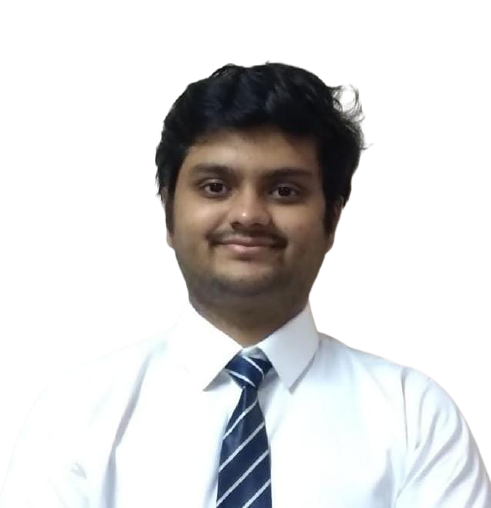
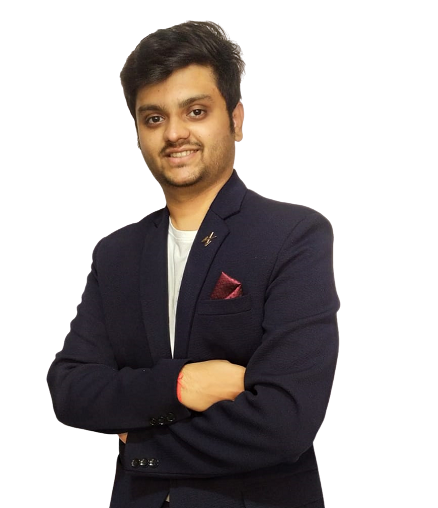
Profile photo updated

diff --git a/index.html b/index.html
@@ -119,7 +119,7 @@
                                     129.362C2.45775 97.8511 -7.48481 59.1033 6.67581 34.5279C20.9871 10.1032 59.7028 
                                     -0.149132 97.9666 0.00163737C136.23 0.303176 174.193 10.857 190.312 36.4879Z" />
 
-                                <image class="home__blob-img" x='12' y='18' xlink:href="img/perfil.png" />
+                                <image class="home__blob-img" x='25' y='20' xlink:href="img/perfil.png" />
                             </g>
                         </svg>
                     </div>
@@ -632,7 +632,7 @@
                                 <h3 class="qualification__title">BSc in Programming and Data Science,</h3>
                                 <span class="qualification__subtitle">IITM, Madras</span>
                                 <div class="qualification__calendar">
-                                    CGPA 8.5 <br>
+                                    CGPA 8.62 <br>
                                     <i class="uil uil-calendar-alt"></i>
                                     2020 - 2023
                                 </div>
